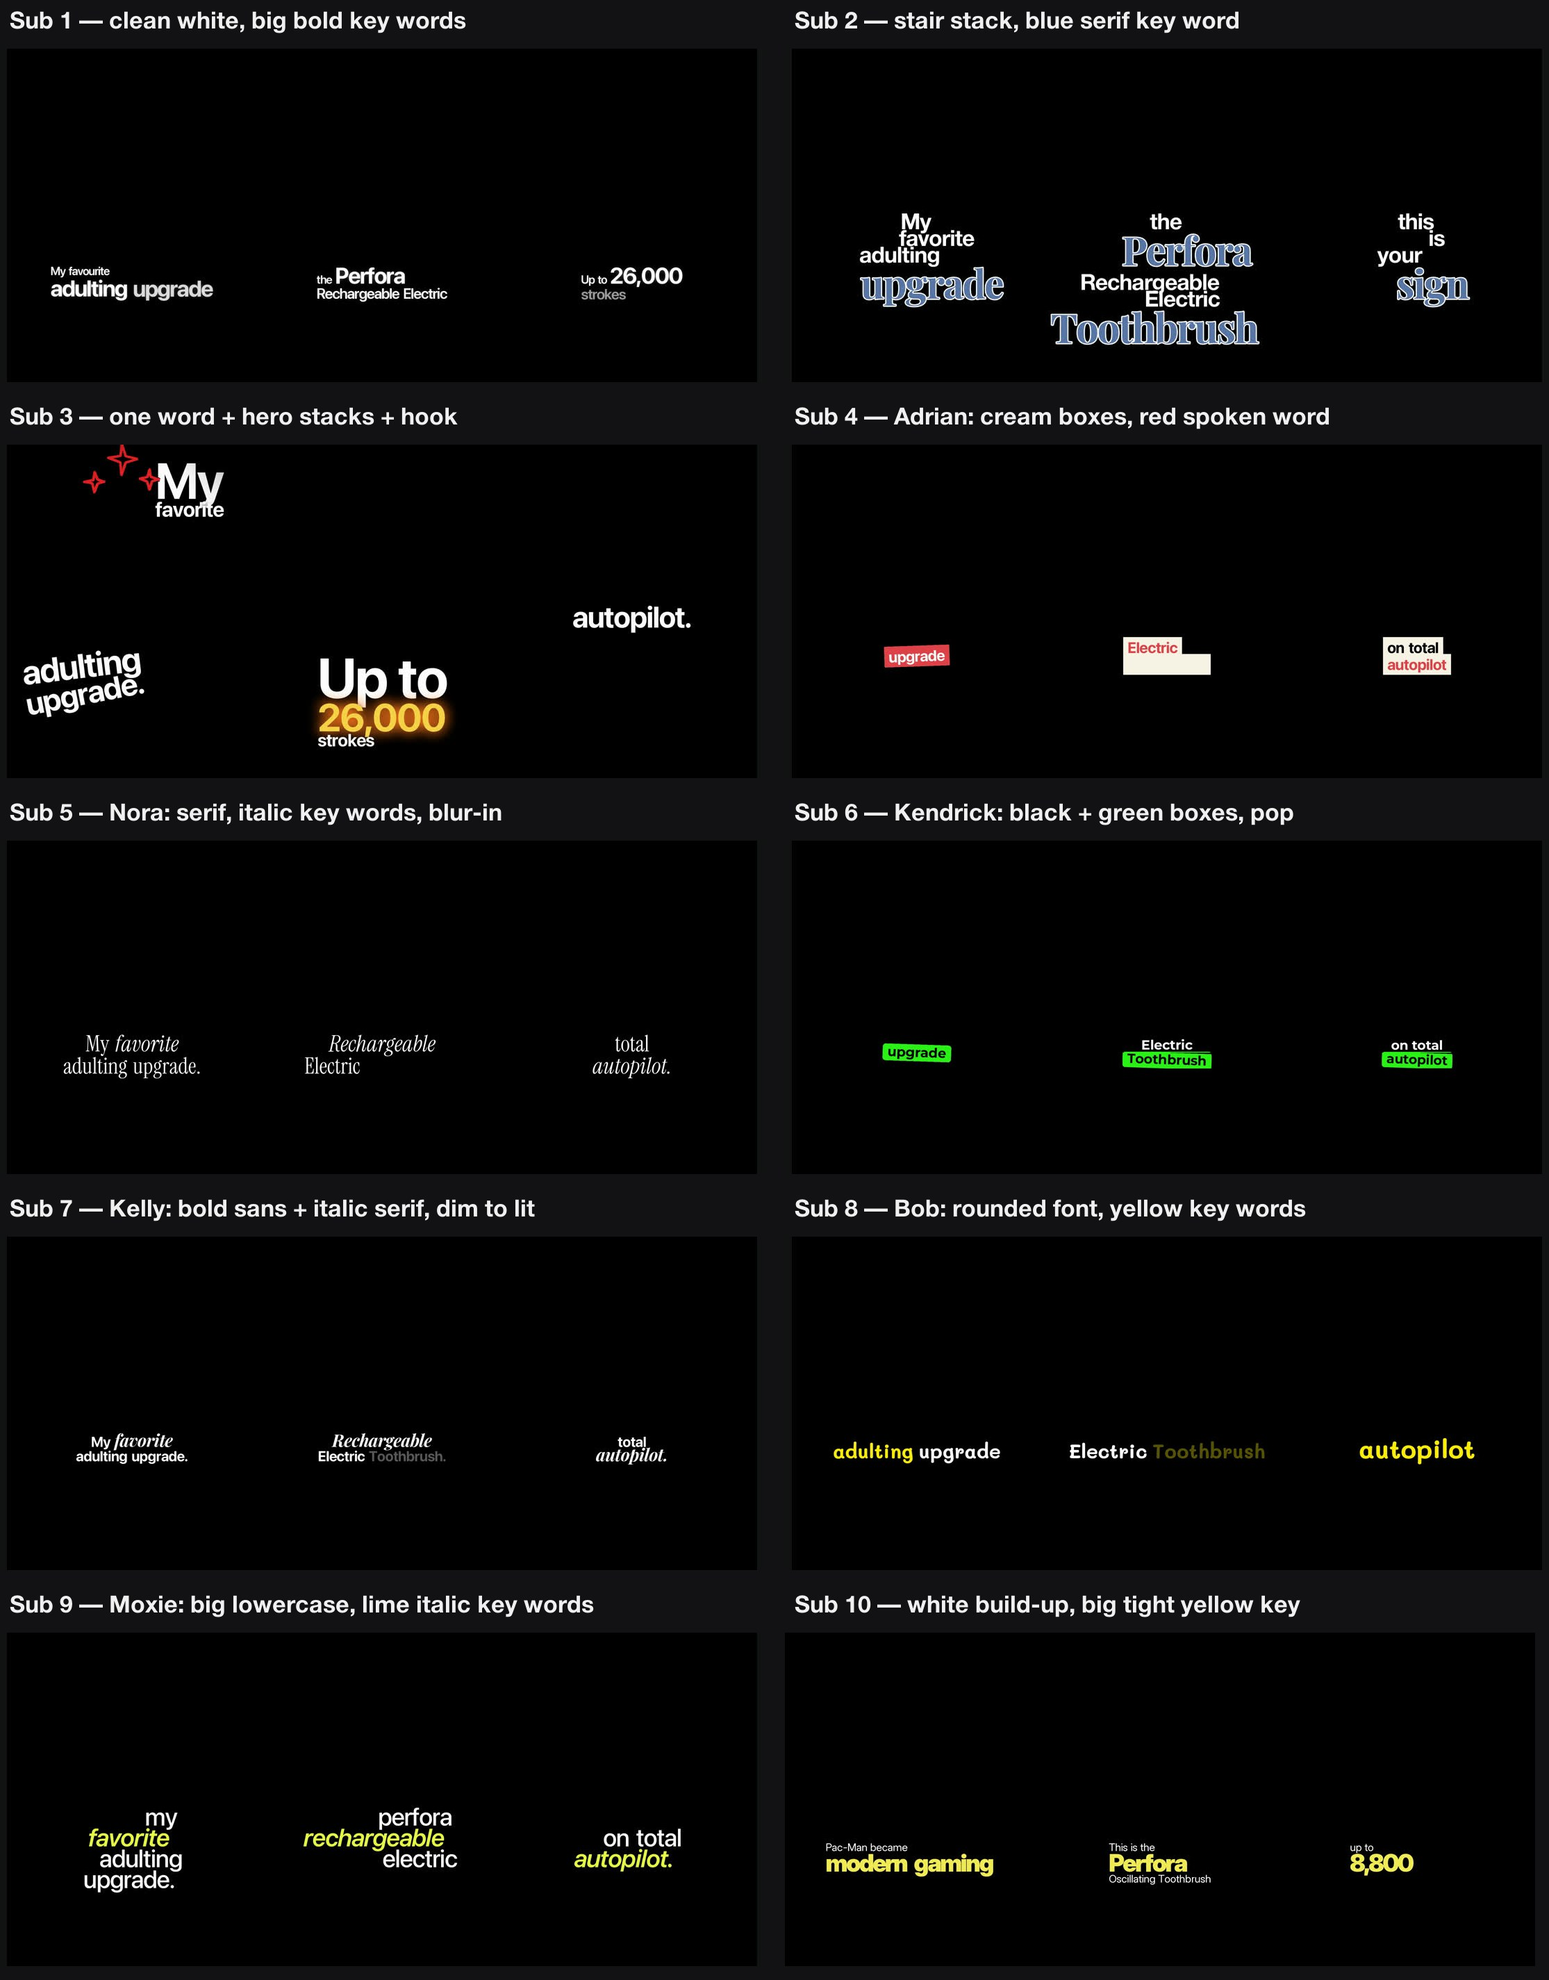
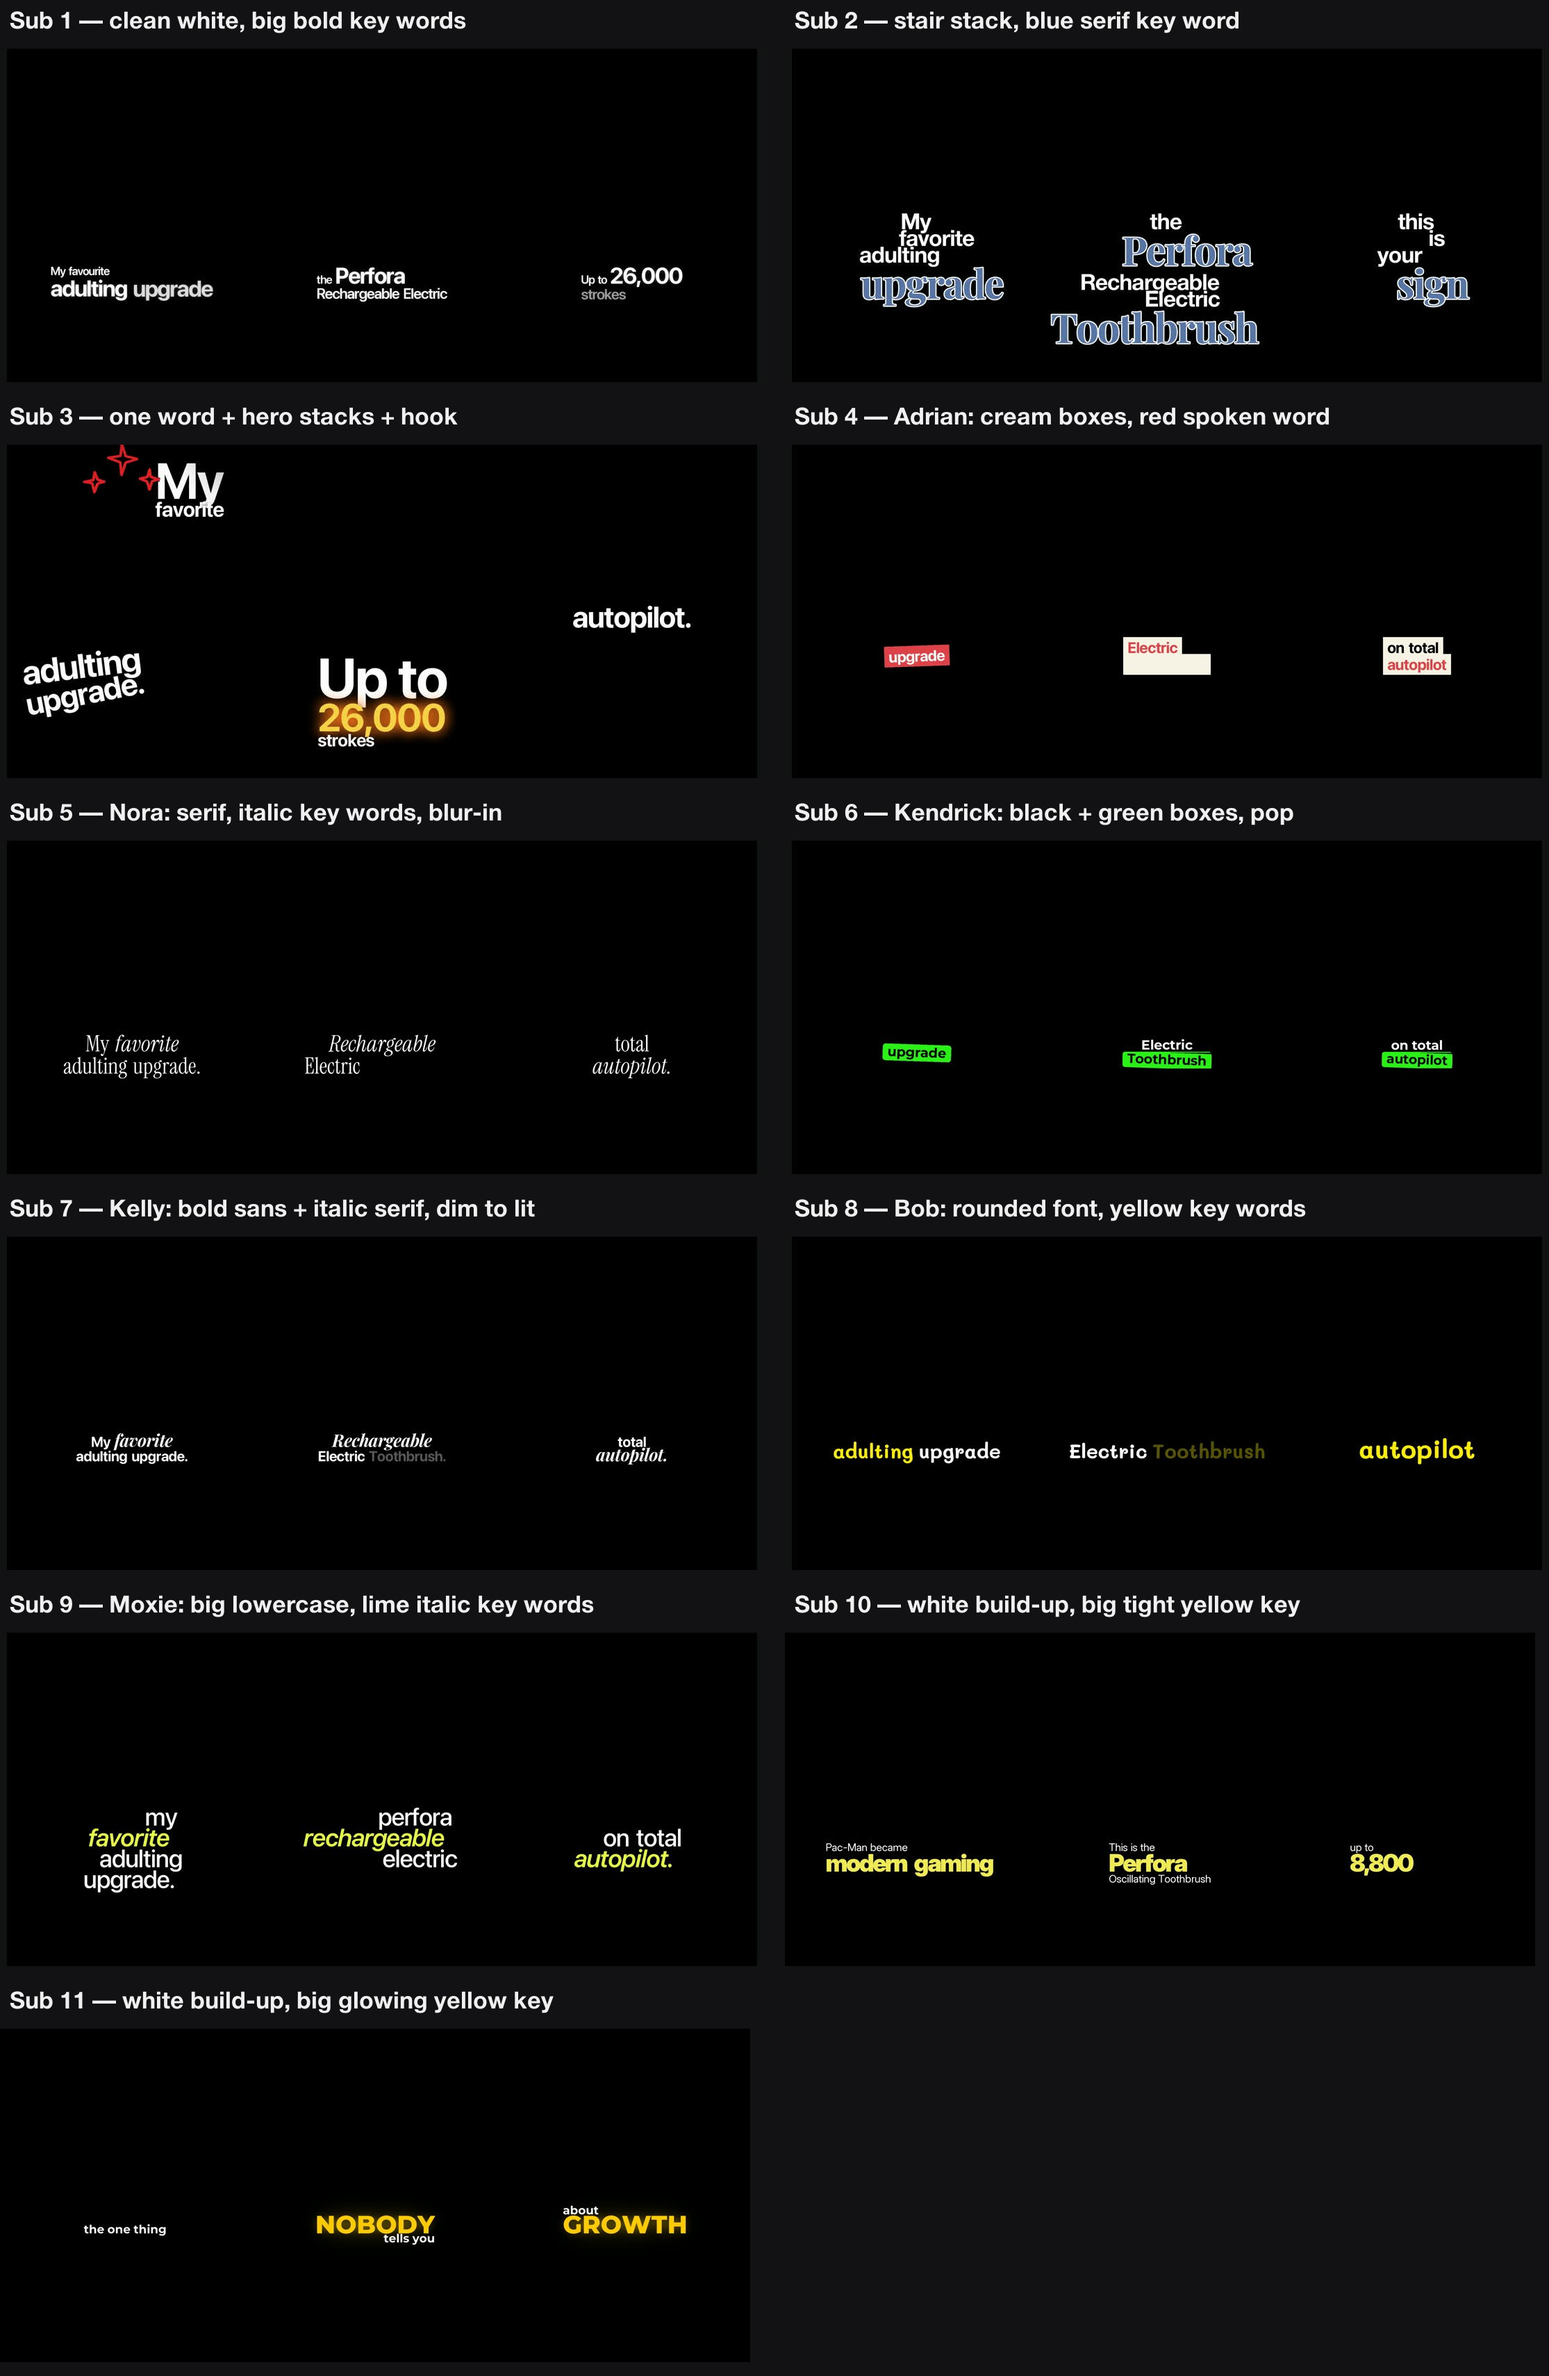
Add Sub 11 (glowing yellow key)

diff --git a/previews/picker.html b/previews/picker.html
@@ -1,4 +1,4 @@
-<link rel="stylesheet" href="https://fonts.googleapis.com/css2?family=Inter:ital,wght@0,500;0,600;0,700;0,800;0,900;1,700&family=Playfair+Display:ital,wght@0,700;1,700&family=Instrument+Serif:ital@0;1&family=Montserrat:wght@700&family=Mali:wght@700&display=swap">
+<link rel="stylesheet" href="https://fonts.googleapis.com/css2?family=Inter:ital,wght@0,500;0,600;0,700;0,800;0,900;1,700&family=Playfair+Display:ital,wght@0,700;1,700&family=Instrument+Serif:ital@0;1&family=Montserrat:wght@700;800&family=Mali:wght@700&display=swap">
 <style>
 .sp-grid{display:grid;grid-template-columns:repeat(auto-fit,minmax(200px,1fr));gap:12px;padding:1rem 0}
 .sp-tile{position:relative;height:150px;border-radius:12px;background:#3b3b3e;border:0.5px solid var(--border);cursor:pointer;overflow:hidden;display:flex;align-items:center;justify-content:center;padding:0;font-family:Inter,sans-serif}
@@ -119,6 +119,14 @@
   <div style="font:900 30px Inter;letter-spacing:-.065em;color:#F3EB57"><span class="w" style="color:#F3EB57;transform-origin:left bottom;animation:g0 4s infinite">modern</span> <span class="w" style="color:#F3EB57;transform-origin:left bottom;animation:g1 4s infinite">gaming</span></div>
  </div>
  <span class="sp-name">Sub 10 · yellow key line</span>
+</button>
+
+<button type="button" class="sp-tile" onclick="sendPrompt('Go with Sub 11')" aria-label="Sub 11">
+ <div style="display:inline-block;line-height:.9;text-align:left">
+  <div style="font:700 13px Montserrat;color:#fff;text-shadow:0 1px 3px rgba(0,0,0,.4)"><span class="w" style="animation:s0 4s infinite">about</span></div>
+  <div style="font:800 34px Montserrat;color:#FFCC00;text-shadow:0 0 10px rgba(255,204,0,.75),0 0 26px rgba(255,204,0,.45)"><span class="w" style="animation:s2 4s infinite">GROWTH</span></div>
+ </div>
+ <span class="sp-name">Sub 11 · glowing yellow key</span>
 </button>
 
 </div>

diff --git a/scripts/sub11_captions.py b/scripts/sub11_captions.py
@@ -1,0 +1,121 @@
+"""Sub 11 "podcast yellow pop": small white Montserrat Bold words build up on one centred line; a key word lands as a huge
+UPPERCASE Montserrat ExtraBold in yellow #FFCC00 with a soft yellow glow behind it. Small words before the key word sit
+just above it, flush with its left edge; small words after sit just below, flush with its right edge. Words cut in on
+their spoken start (no fade). From an Instagram podcast reel (2026-11-25).
+Usage: python -E -P sub11_captions.py edit.mp4 words.txt out.mp4|out.mov
+PAGES: one card per line, "/" = line break, *word* = key word (a line is all key or all small; one key line per card),
+"@y" at the end moves that card's baseline (the key line's, or the small line's) to y.
+Tokens must match the spoken words in order (count is asserted).
+"""
+import os, re, subprocess, sys
+from PIL import Image, ImageDraw, ImageFilter
+sys.path.insert(0, os.path.dirname(os.path.abspath(__file__)))
+from fontkit import font as kfont
+
+IN, WORDS, OUT = sys.argv[1:4]
+W, H = 1080, 1920
+BASE = 1124                      # default baseline (chest height, sampled from the reference)
+YELLOW = (255, 204, 0)
+SMALL_SIZE, BIG_SIZE = 50, 108
+GAP = 0.26                       # word gap, em
+MAXW = 980                       # long key lines shrink to fit
+
+def mont(size, wght):
+    f = kfont("Montserrat[wght].ttf", size); f.set_variation_by_axes([wght]); return f
+_fonts = {}
+def F(key, size=None):
+    k = (key, size)
+    if k not in _fonts: _fonts[k] = mont(size or (BIG_SIZE if key else SMALL_SIZE), 800 if key else 700)
+    return _fonts[k]
+
+PAGES = """*Two* *things* / you should be doing
+Straighten / *your* *back*
+and say goodbye to your / *toothbrush*"""
+
+words = [(float(p[0]), p[2].strip()) for p in (l.split(None, 2) for l in open(WORDS, encoding="utf-8")) if len(p) == 3]
+pages, wi = [], 0
+for pg in PAGES.strip().splitlines():
+    m = re.search(r"\s@(\d+)\s*$", pg); base = int(m.group(1)) if m else BASE; pg = pg[:m.start()] if m else pg
+    lines = []
+    for ln in pg.split("/"):
+        toks = [{"text": t.strip("*"), "key": t.startswith("*"), "t": words[wi + i][0]} for i, t in enumerate(ln.split())]
+        wi += len(toks)
+        assert len({t["key"] for t in toks}) == 1, f"mix of key and small words on one line: {ln!r}"
+        if toks[0]["key"]:
+            for t in toks: t["text"] = t["text"].upper()
+        lines.append(toks)
+    assert sum(l[0]["key"] for l in lines) <= 1 and len(lines) <= 3, f"one key line, max 3 lines per card: {pg!r}"
+    pages.append([lines, base])
+assert wi == len(words), f"page tokens {wi} != spoken words {len(words)}"
+norm = lambda s: re.sub(r"[^a-z0-9]", "", s.lower())
+off = 0
+for lines, _ in pages:
+    for ln in lines:
+        for tok in ln:
+            if norm(tok["text"]) != norm(words[off][1]): print(f"  note: shown {tok['text']!r} for spoken {words[off][1]!r}")
+            off += 1
+for i, p in enumerate(pages):
+    p.append(p[0][0][0]["t"]); p.append(pages[i + 1][0][0][0]["t"] if i + 1 < len(pages) else 1e9)
+
+def row(toks, f):
+    x, items = 0, []
+    for tok in toks: items.append((x, tok)); x += f.getlength(tok["text"]) + GAP * f.size
+    return items, x - GAP * f.size
+
+def layout(lines, base):
+    """-> [(x, baseline, tok, font)]. Key line centred; small line above flush left, below flush right."""
+    ki = next((i for i, l in enumerate(lines) if l[0]["key"]), None)
+    out = []
+    if ki is None:                                   # small-only card: lines centred, stacked upward from base
+        f = F(False)
+        for i, toks in enumerate(lines):
+            items, w = row(toks, f); y = base - (len(lines) - 1 - i) * f.size * 1.05
+            out += [((W - w) / 2 + x, y, t, f) for x, t in items]
+        return out
+    f = F(True); items, kw = row(lines[ki], f)
+    if kw > MAXW: f = F(True, int(BIG_SIZE * MAXW / kw)); items, kw = row(lines[ki], f)
+    kx = (W - kw) / 2; cap = f.getbbox("H")[3] - f.getbbox("H")[1]
+    out += [(kx + x, base, t, f) for x, t in items]
+    s = F(False)
+    for i, toks in enumerate(lines):
+        if i == ki: continue
+        items, w = row(toks, s)
+        if i < ki: x0, y = kx, base - cap - 6        # sits on the key word's cap line, descenders tuck in
+        else:      x0, y = kx + kw - w, base + s.size * 0.78
+        out += [(x0 + x, y, t, s) for x, t in items]
+    return out
+
+ALPHA = OUT.lower().endswith(".mov")
+fps = eval(subprocess.run(["ffprobe", "-v", "error", "-select_streams", "v:0", "-show_entries", "stream=r_frame_rate", "-of", "csv=p=0", IN],
+                          capture_output=True, text=True).stdout.strip())
+dur = float(subprocess.run(["ffprobe", "-v", "error", "-show_entries", "format=duration", "-of", "csv=p=0", IN], capture_output=True, text=True).stdout)
+base_in = ["-f", "lavfi", "-i", f"color=c=black@0.0:s={W}x{H}:r={fps},format=rgba"] if ALPHA else ["-i", IN]
+enc = (["-c:v", "prores_ks", "-profile:v", "4", "-pix_fmt", "yuva444p10le", "-alpha_bits", "16"] if ALPHA
+       else ["-map", "0:a?", "-c:v", "libx264", "-crf", "17", "-preset", "medium", "-c:a", "copy"])
+proc = subprocess.Popen(["ffmpeg", "-y", "-v", "error", *base_in, "-f", "rawvideo", "-pix_fmt", "rgba", "-s", f"{W}x{H}", "-r", str(fps), "-i", "-",
+                         "-filter_complex", f"[0:v][1:v]overlay=0:0:shortest=1,format={'yuva444p10le' if ALPHA else 'yuv420p'}[v]", "-map", "[v]", *enc, OUT],
+                        stdin=subprocess.PIPE)
+blank, cache = bytes(W * H * 4), {}
+for n in range(round(dur * fps)):
+    t = n / fps
+    pg = next((p for p in pages if p[2] <= t < p[3]), None)
+    if not pg: proc.stdin.write(blank); continue
+    items = layout(pg[0], pg[1])
+    st = tuple(t >= tok["t"] for _, _, tok, _ in items)
+    k = (id(pg), st)
+    if k not in cache:
+        txt, sh, glow = (Image.new("RGBA", (W, H), (0, 0, 0, 0)) for _ in range(3))
+        dt, ds, dg = ImageDraw.Draw(txt), ImageDraw.Draw(sh), ImageDraw.Draw(glow)
+        for (x, base, tok, f), on in zip(items, st):
+            if not on: continue
+            y = base - f.getmetrics()[0]
+            if tok["key"]:
+                dt.text((x, y), tok["text"], font=f, fill=YELLOW + (255,))
+                dg.text((x, y), tok["text"], font=f, fill=YELLOW + (255,))
+            else:
+                dt.text((x, y), tok["text"], font=f, fill=(255, 255, 255, 255))
+                ds.text((x, y + 3), tok["text"], font=f, fill=(0, 0, 0, 110))
+        wide = glow.filter(ImageFilter.GaussianBlur(70)); g = Image.alpha_composite(Image.alpha_composite(wide, wide), glow.filter(ImageFilter.GaussianBlur(24)))   # warm halo that lifts the footage like the reference
+        cache.clear(); cache[k] = Image.alpha_composite(Image.alpha_composite(g, sh.filter(ImageFilter.GaussianBlur(5))), txt).tobytes()
+    proc.stdin.write(cache[k])
+proc.stdin.close(); proc.wait(); print("done", OUT, proc.returncode)

diff --git a/SKILL.md b/SKILL.md
@@ -109,3 +109,14 @@ The look:
 - Not included: the small Claude logo the reference puts beside some key words (a graphic, not caption style).
 
 Steps: same as Sub No. 1, with `scripts/sub10_captions.py` (PAGES = one card per line, `/` = line break, `*word*` = key word, `@y` at the end of a line moves that card's top to y). Run `python -E -P sub10_captions.py edit.mp4 words.txt out.mp4|out.mov`; the frame rate is read from the input.
+
+## Sub No. 11 "glowing yellow key" (saved 2026-11-25, from an Instagram Hinglish podcast reel)
+
+The look:
+- **Small words:** white Montserrat Bold 50, 1-3 per line, centred, baseline y 1124 (chest height). Each word cuts in on its spoken start (no fade); words appear at their final spot, so the line builds left to right. Faint dark shadow.
+- **Key word:** UPPERCASE Montserrat ExtraBold 108 in yellow #FFCC00 (sampled), centred on the same baseline, with a soft warm yellow glow behind it that lifts the footage. Cuts in on its spoken start. Long key lines shrink to fit 980 px.
+- **Small words with a key word:** the line before it sits right on top of it, flush with its LEFT edge ("apne / *HISAAB*"); the line after sits right under it, flush with its RIGHT edge ("*PLATFORM* / par aakar").
+- **Text rules:** no punctuation; one key line per card (max 3 lines); a line is all key or all small (asserts check both). Fix misheard words in PAGES; the script prints a note for each.
+- Not included: the reel's fixed yellow title bar at the top (a per-video graphic).
+
+Steps: same as Sub No. 1, with `scripts/sub11_captions.py` (PAGES = one card per line, `/` = line break, `*word*` = key word, `@y` at the end moves that card's baseline). Run `python -E -P sub11_captions.py edit.mp4 words.txt out.mp4|out.mov`; the frame rate is read from the input.
